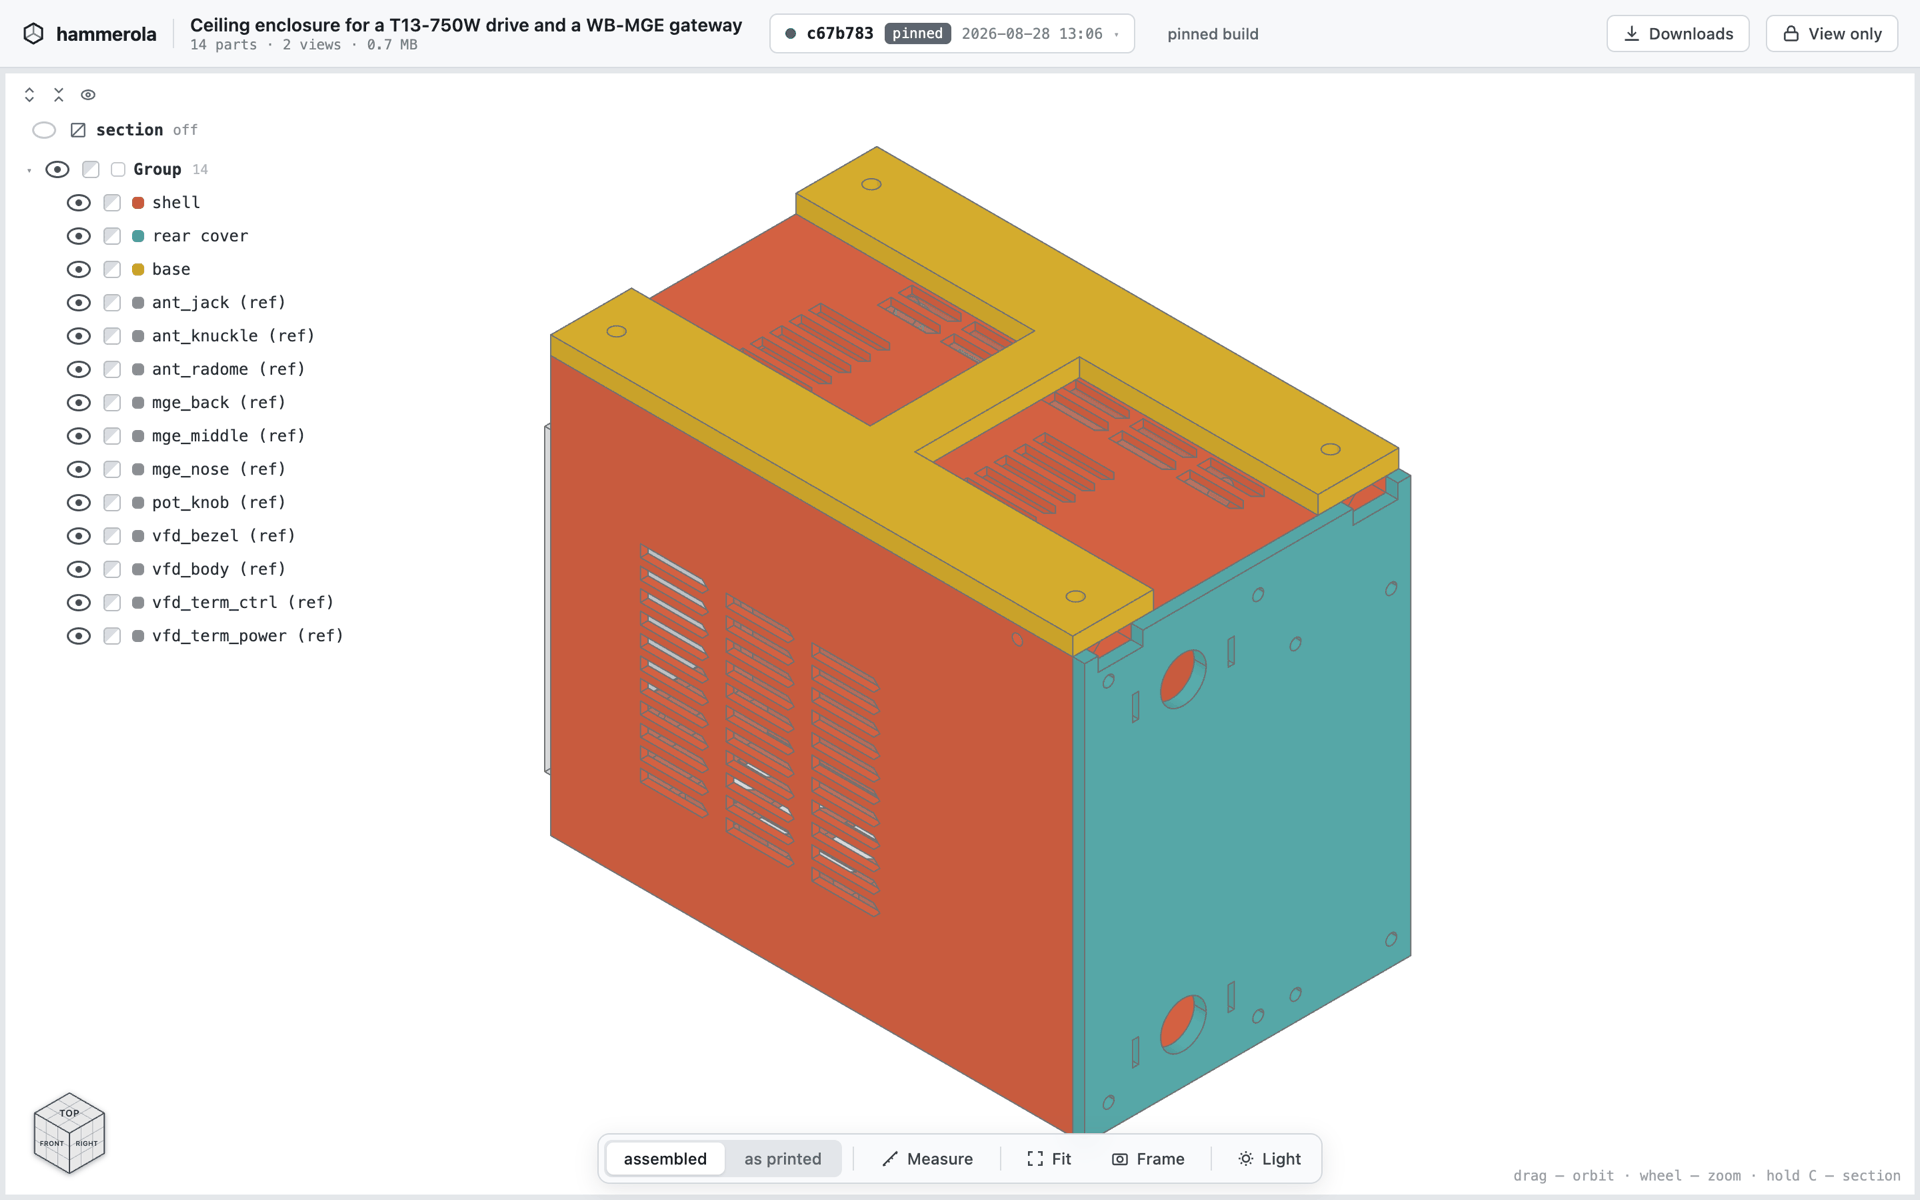
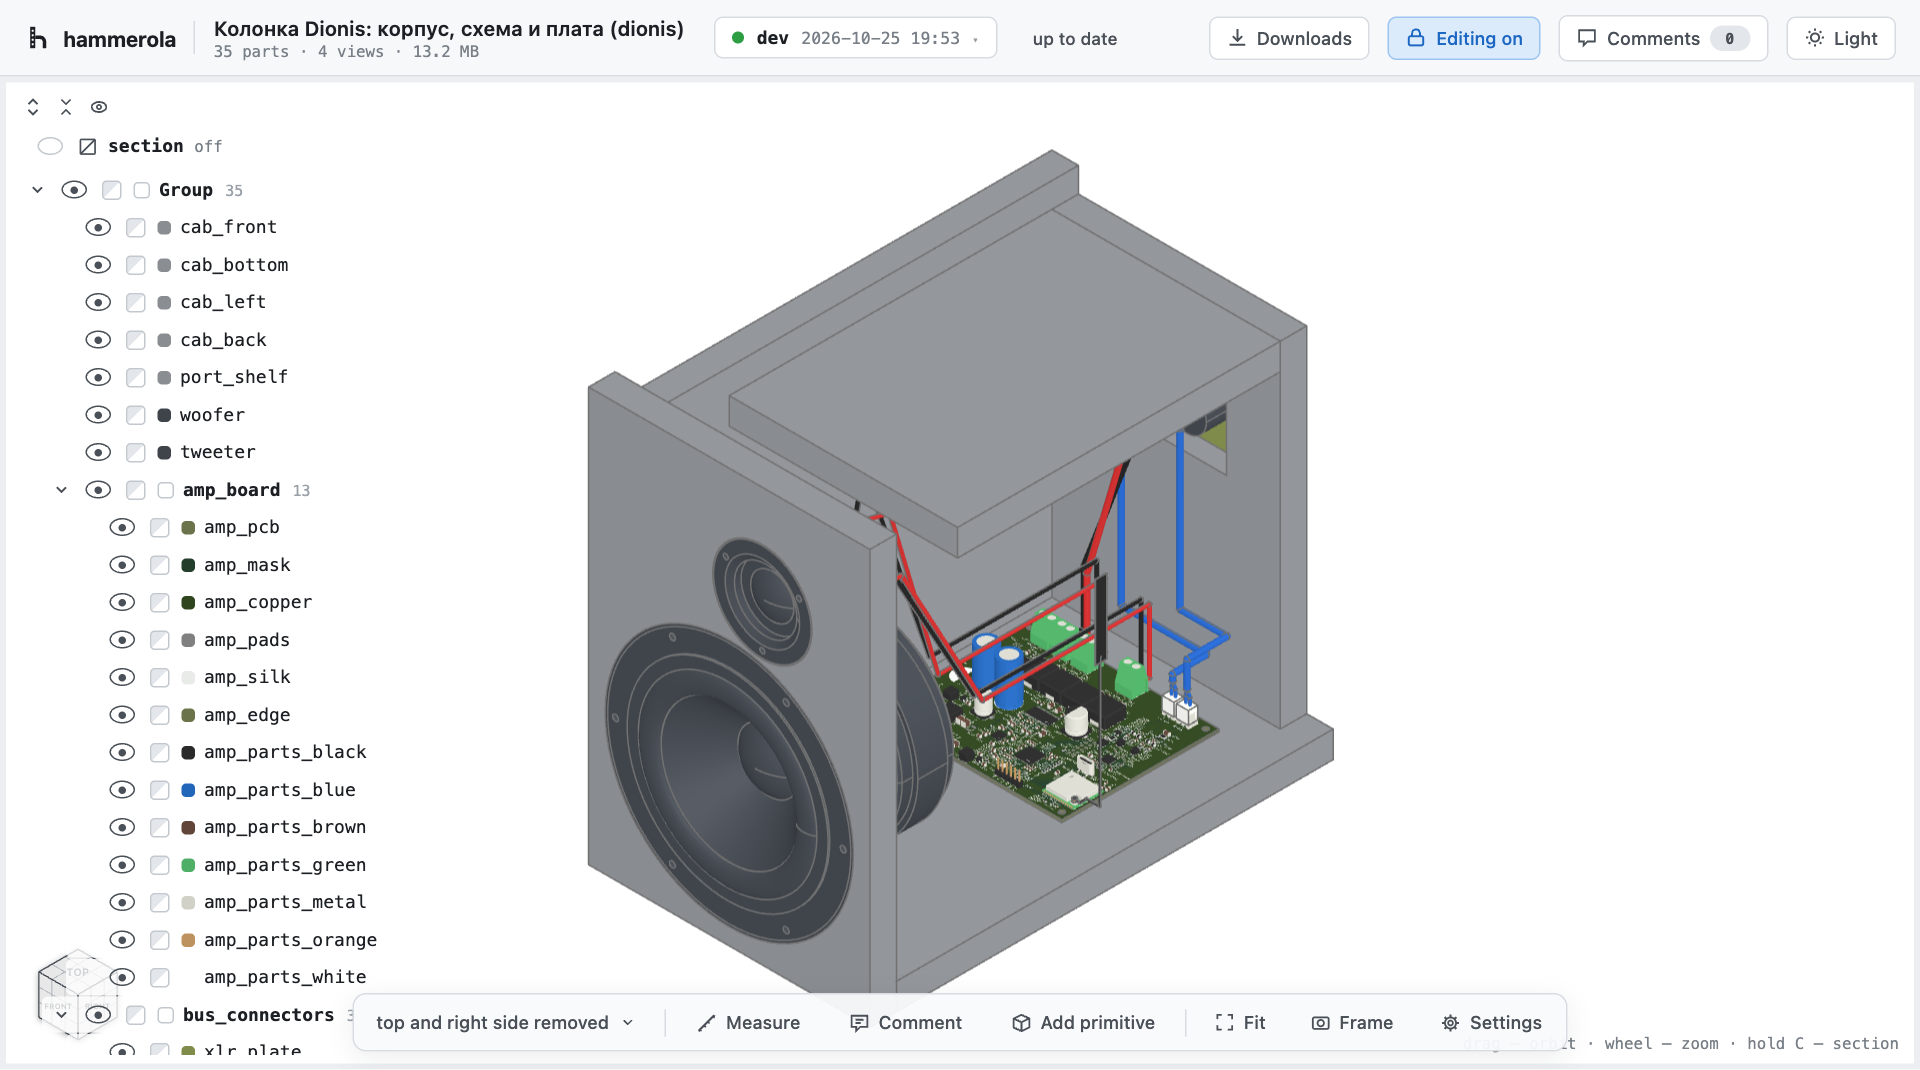
docs(readme): screenshots of every section, taken on the Dionis speaker
The two screenshots from August showed a page that no longer looks like
that, and the new section on documents had none. All eight are now taken
from one project that has a model, markdown notes, CSV files, a KiCad
schematic, board and 3D model and a zip of Gerbers: the cut-open speaker,
the print view with Downloads (CSV and Gerbers beside the STL), the menu
of views and documents, a plain file, the board with its layer panel and
a part's right-click menu, the schematic opened from it, the 3D board and
the Gerbers.

diff --git a/README.md b/README.md
@@ -414,6 +414,8 @@ bottom left of the page. A project with no `model.py` — `hammerola create
 --no-template` starts one — is built out of its documents alone, and its page is
 the same menu with no model behind it.
 
+![A markdown document open on the build page, under the menu of views and documents](docs/images/documents-menu.png)
+
 **The extension decides only how a document is shown.** Markdown is drawn, and
 a link in it to another listed document opens that document on the page; a PDF,
 a picture, HTML and SVG are shown as they are; `.kicad_sch`, `.kicad_pcb`,
@@ -424,6 +426,8 @@ build page the Downloads menu offers it under its extension, beside the STL. A
 `.dxf` is a plain file with a picture: the hub draws an SVG of it when the push
 is checked, publishes it at `<path>.svg`, and the page shows that picture above
 the file's name and size.
+
+![A CSV listed as a document: its name, extension and size, with Download and Copy link](docs/images/plain-file.png)
 
 **A KiCad board is up to three documents with one name.** A schematic, its board
 and the board's 3D model whose paths differ only by the extension are one
@@ -439,6 +443,12 @@ pad; the 3D view turns like the model does. A part whose `Datasheet` field names
 a PDF the project lists (`${KIPRJMOD}/ds/tpa3250.pdf`, hidden above) gets
 `Open datasheet` in the same menu, which opens it in a window over the design.
 
+![The board with its layer panel, a net lit and the right-click menu of a part](docs/images/kicad-board.png)
+
+![The schematic, opened from that menu with the same part selected](docs/images/kicad-schematic.png)
+
+![The 3D model of the board](docs/images/kicad-3d.png)
+
 **The Gerbers are one zip**, drill files included — what goes to the fab. The
 page unzips it in the browser, tells each layer by its `%TF.FileFunction`
 attribute rather than by the file's name, and draws copper, mask, silkscreen,
@@ -446,6 +456,8 @@ paste, outline and drills with a toggle per layer, from the top or from the
 bottom; a model's build page also lists the zip under GERBERS in Downloads. A
 `.zip` is read as Gerbers unless its entry says `"download": true`, which is how
 a zip of stand logs stays a plain file.
+
+![The Gerbers of the same board, seen from the top](docs/images/gerbers.png)
 
 **A wrong list refuses the push, whole.** A path that is not a file, a path
 listed twice, a file that would overwrite what the model's build wrote, a DXF
